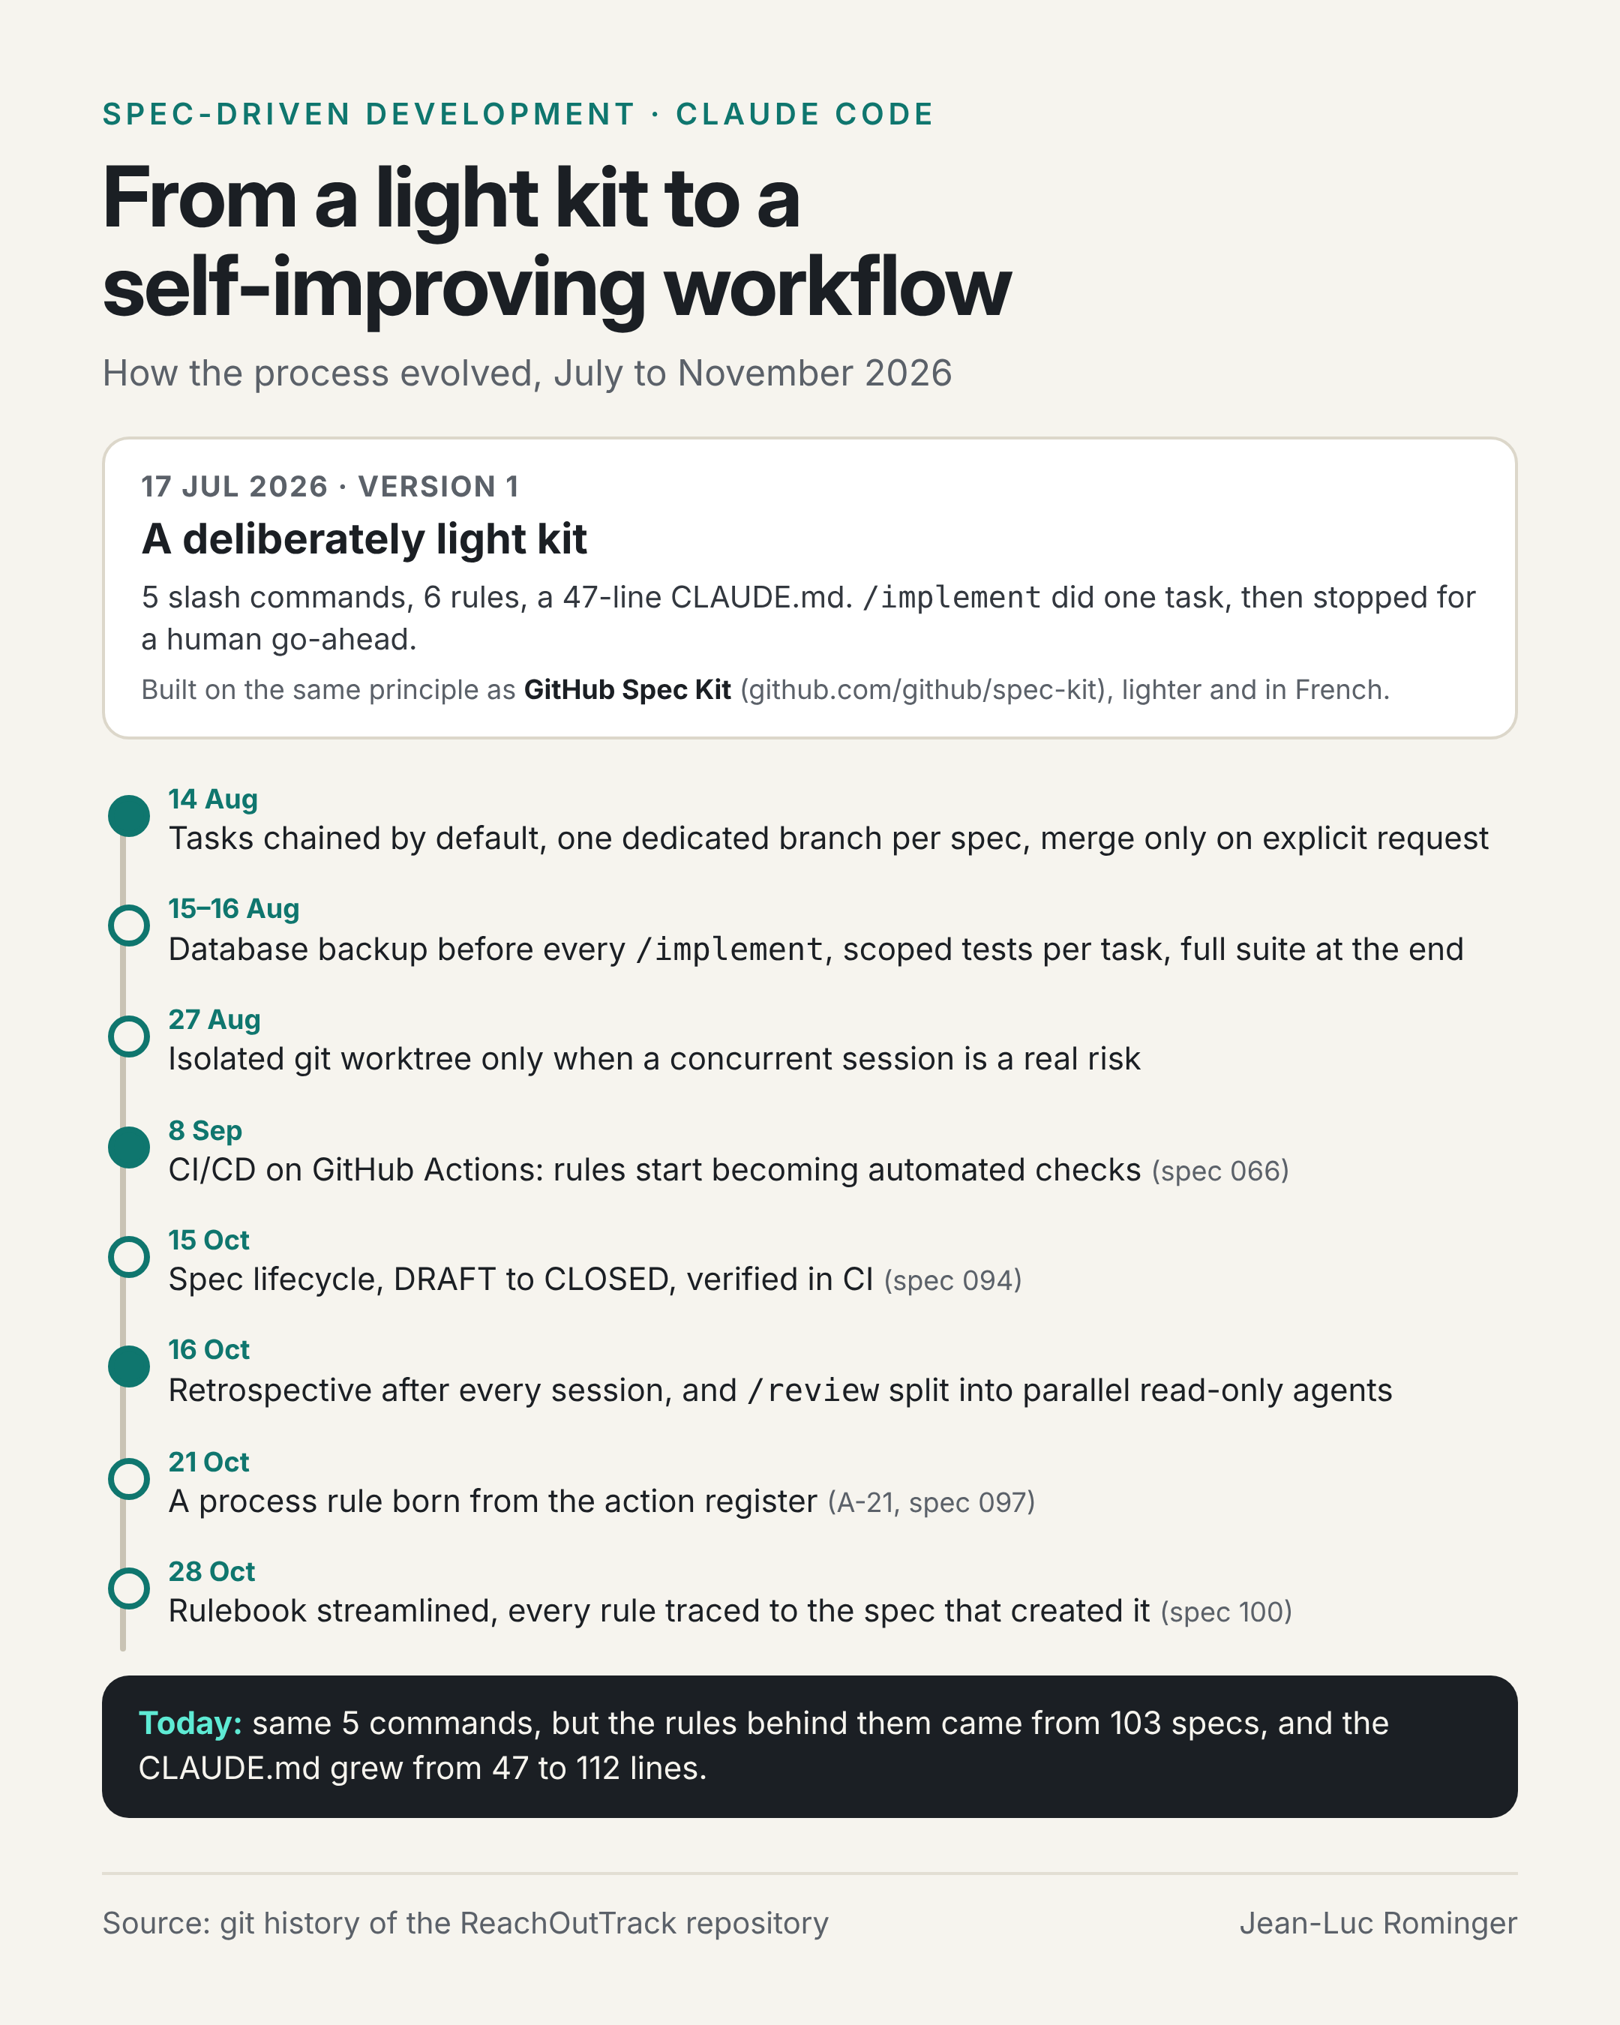
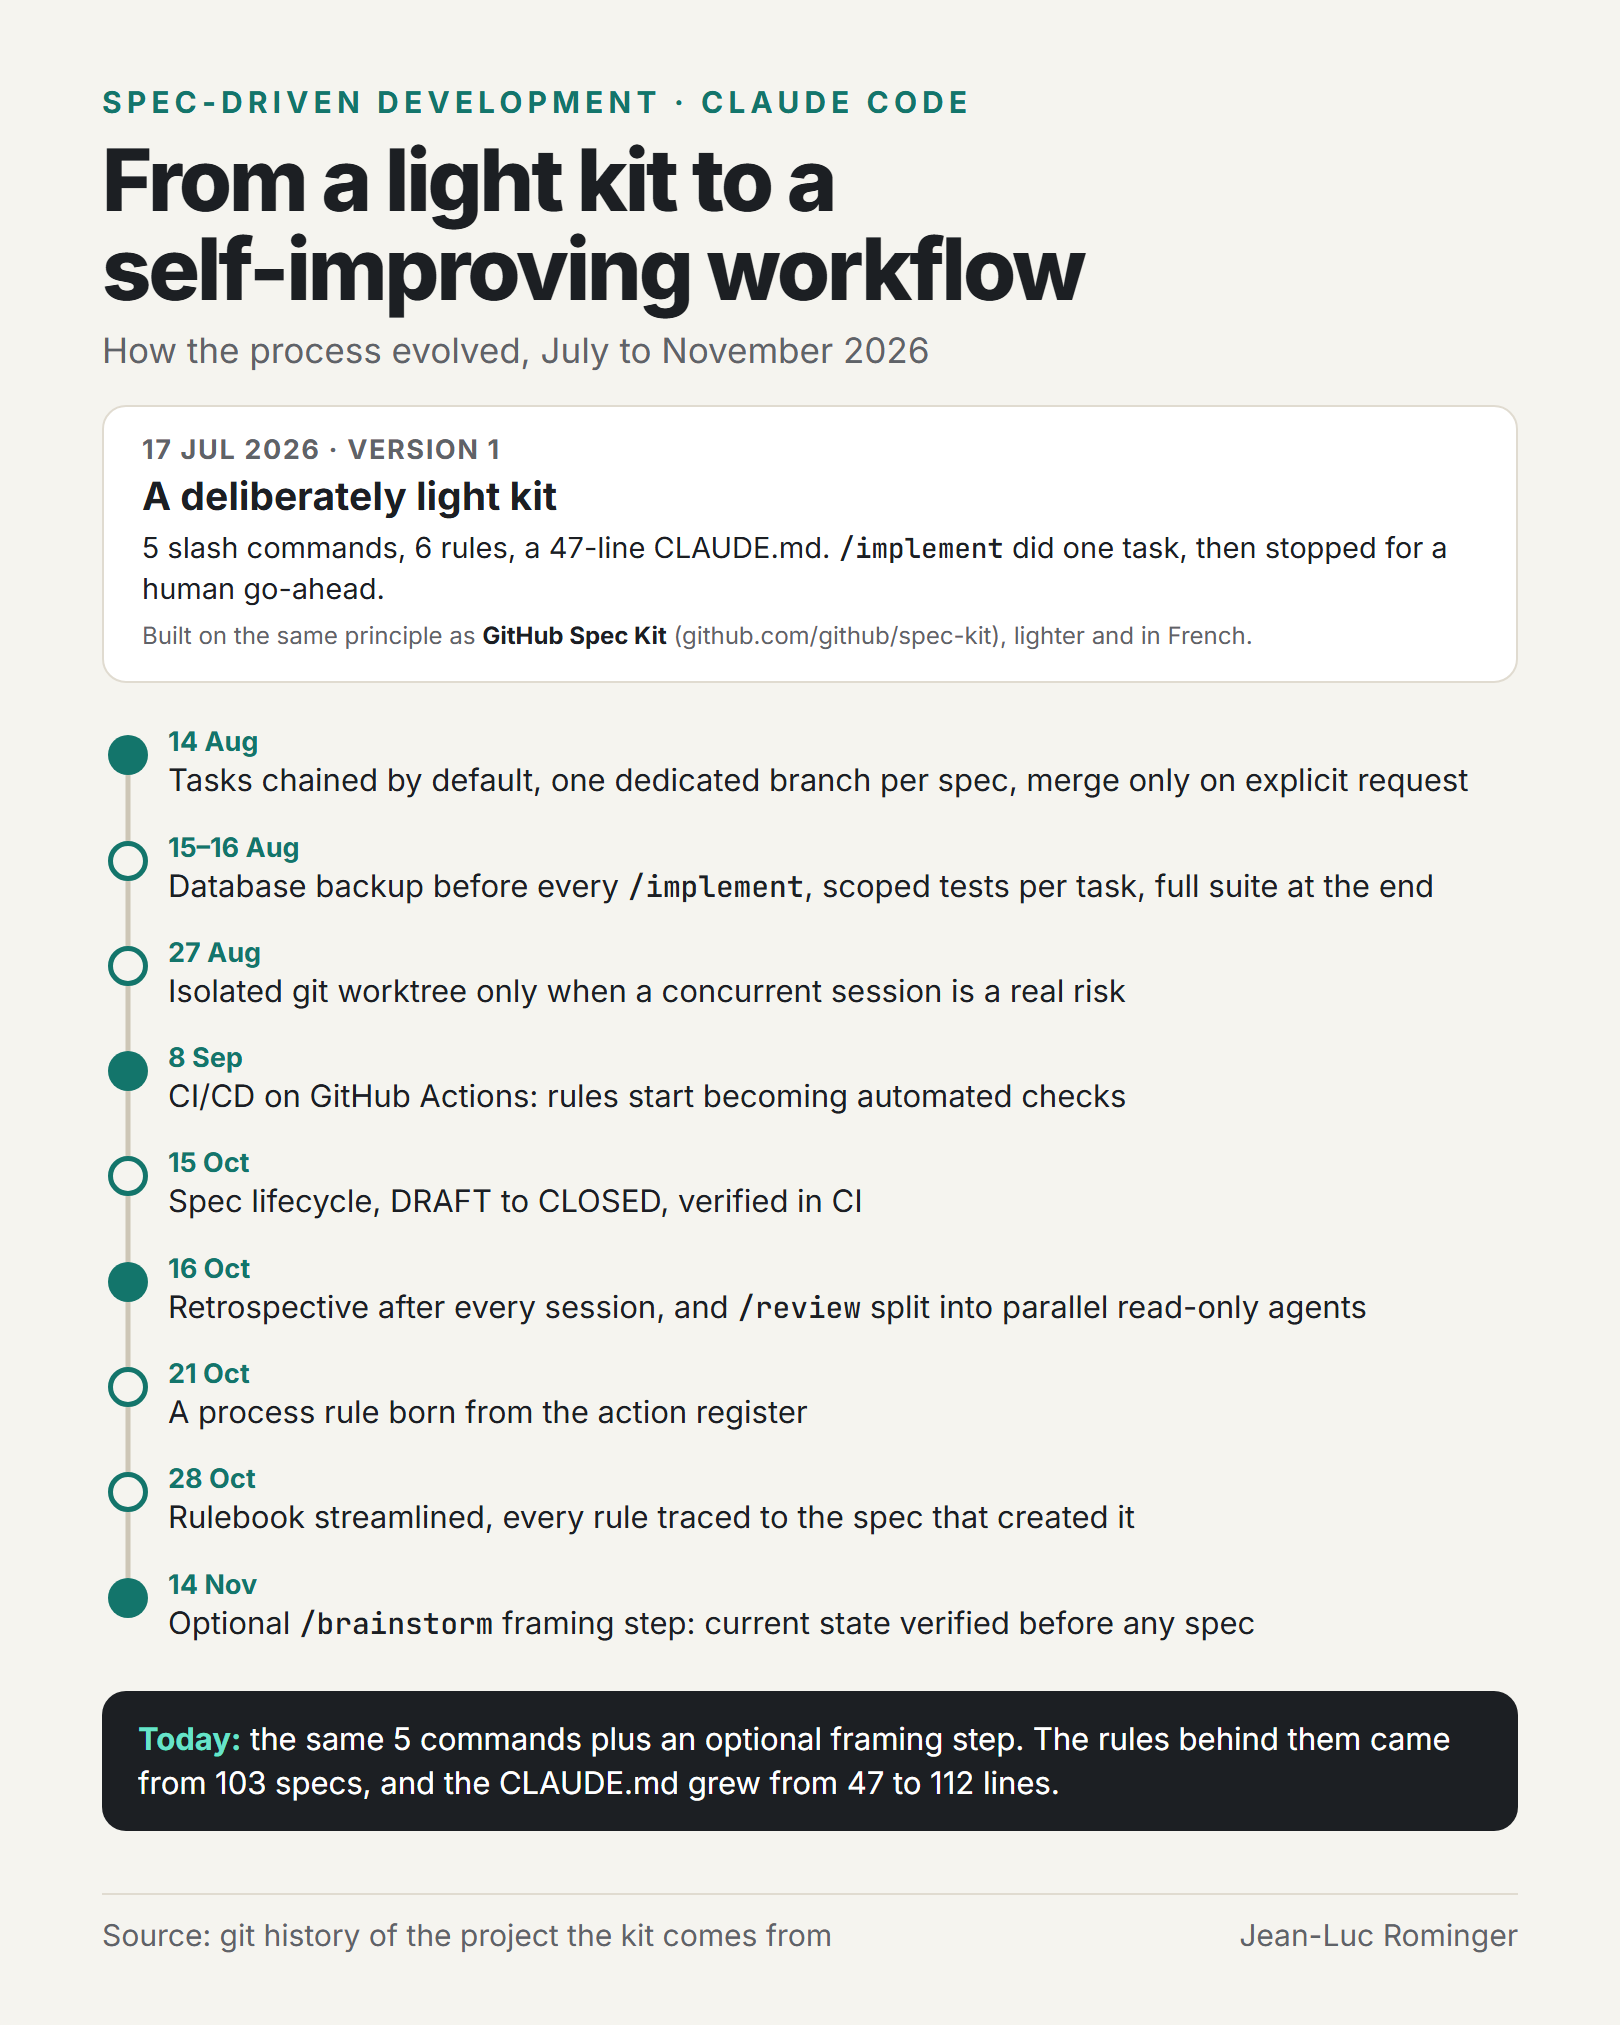
docs: evolution visual without source-project references, with its source
- evolution.png: no source-project name, spec or action numbers
  (MAINTAINING.md, section 3); new 14 Nov milestone for /brainstorm;
  "Today" box mentions the optional framing step. Same 1620 x 2025 px.
- docs/images/src/evolution.html: editable source; the folder README now
  covers both visuals.

Changed region(s): [[0.0617, 0.0311, 0.9259, 0.9644], [0.8025, 0.6844, 0.8642, 0.7156]]

diff --git a/docs/images/src/evolution.html b/docs/images/src/evolution.html
@@ -1,0 +1,163 @@
+<!doctype html>
+<!--
+  Source of docs/images/evolution.png (1620 x 2025 px, 4:5).
+  Edit the text below, then re-render: see docs/images/src/README.md.
+  Kit rule (MAINTAINING.md, section 3): no upstream project name, spec number or action number here.
+-->
+<html lang="en">
+<head>
+<meta charset="utf-8">
+<title>SDD kit evolution</title>
+<link rel="preconnect" href="https://fonts.googleapis.com">
+<link rel="preconnect" href="https://fonts.gstatic.com" crossorigin>
+<link href="https://fonts.googleapis.com/css2?family=Inter:wght@400;500;600;700;800&family=JetBrains+Mono:wght@500&display=block" rel="stylesheet">
+<style>
+  :root {
+    --bg: #f5f4ef;
+    --ink: #1c1f23;
+    --muted: #5f6368;
+    --line: #e0dbd0;
+    --rail: #cdc6b6;
+    --teal: #13756b;
+    --dark: #1c1f23;
+    --mint: #67e3c9;
+    --mono: "JetBrains Mono", ui-monospace, Consolas, monospace;
+  }
+  * { box-sizing: border-box; margin: 0; padding: 0; }
+  html, body { width: 1620px; height: 2025px; background: var(--bg); }
+  body {
+    font-family: Inter, "Segoe UI", Arial, sans-serif;
+    color: var(--ink);
+    -webkit-font-smoothing: antialiased;
+  }
+  code { font-family: var(--mono); font-size: .95em; }
+  .canvas {
+    width: 1620px; height: 2025px;
+    padding: 84px 102px 0;
+    display: flex; flex-direction: column;
+  }
+
+  /* Header */
+  .eyebrow { color: var(--teal); font-weight: 700; font-size: 30px; letter-spacing: .17em; }
+  h1 { font-size: 86px; font-weight: 800; letter-spacing: -.035em; line-height: 1.04; margin-top: 16px; }
+  .subtitle { color: var(--muted); font-size: 35px; margin-top: 14px; }
+
+  /* Version 1 card */
+  .v1 {
+    margin-top: 34px; background: #fff; border: 2px solid var(--line); border-radius: 24px;
+    padding: 26px 38px 28px;
+  }
+  .v1 .kicker { color: var(--muted); font-weight: 700; font-size: 27px; letter-spacing: .06em; }
+  .v1 h2 { font-size: 39px; font-weight: 700; margin-top: 6px; }
+  .v1 p { font-size: 29px; line-height: 1.42; margin-top: 8px; }
+  .v1 .note { color: var(--muted); font-size: 24px; margin-top: 10px; }
+  .v1 .note b { color: var(--ink); }
+
+  /* Timeline */
+  .timeline { margin-top: 36px; }
+  .item { display: grid; grid-template-columns: 52px 1fr; column-gap: 14px; }
+  .rail { position: relative; }
+  .rail::before {
+    content: ""; position: absolute; left: 50%; top: 0; bottom: 0;
+    width: 5px; transform: translateX(-50%); background: var(--rail);
+  }
+  .item:first-child .rail::before { top: 36px; }
+  .item:last-child .rail::before { bottom: auto; height: 36px; }
+  .dot {
+    position: absolute; left: 50%; top: 16px; transform: translateX(-50%);
+    width: 40px; height: 40px; border-radius: 50%; z-index: 1;
+    background: var(--teal);
+  }
+  .dot.minor { background: var(--bg); border: 5px solid var(--teal); }
+  .text { padding: 6px 0 24px; }
+  .date { color: var(--teal); font-weight: 700; font-size: 27px; }
+  .what { font-size: 31px; line-height: 1.3; margin-top: 2px; }
+
+  /* Today */
+  .today {
+    margin-top: 24px; background: var(--dark); color: #fff; border-radius: 24px;
+    padding: 26px 36px; font-size: 31px; line-height: 1.42;
+  }
+  .today b { color: var(--mint); }
+
+  footer {
+    margin-top: auto; margin-bottom: 72px; padding-top: 22px;
+    border-top: 2px solid var(--line);
+    display: flex; justify-content: space-between; font-size: 30px; color: var(--muted);
+  }
+</style>
+</head>
+<body>
+<div class="canvas">
+  <div class="eyebrow">SPEC-DRIVEN DEVELOPMENT · CLAUDE CODE</div>
+  <h1>From a light kit to a<br>self-improving workflow</h1>
+  <p class="subtitle">How the process evolved, July to November 2026</p>
+
+  <div class="v1">
+    <div class="kicker">17 JUL 2026 · VERSION 1</div>
+    <h2>A deliberately light kit</h2>
+    <p>5 slash commands, 6 rules, a 47-line CLAUDE.md. <code>/implement</code> did one task, then stopped for a human go-ahead.</p>
+    <p class="note">Built on the same principle as <b>GitHub Spec Kit</b> (github.com/github/spec-kit), lighter and in French.</p>
+  </div>
+
+  <!-- Filled dot = change to the cycle itself; hollow dot = refinement. -->
+  <div class="timeline">
+    <div class="item"><div class="rail"><span class="dot"></span></div><div class="text">
+      <div class="date">14 Aug</div>
+      <div class="what">Tasks chained by default, one dedicated branch per spec, merge only on explicit request</div>
+    </div></div>
+    <div class="item"><div class="rail"><span class="dot minor"></span></div><div class="text">
+      <div class="date">15–16 Aug</div>
+      <div class="what">Database backup before every <code>/implement</code>, scoped tests per task, full suite at the end</div>
+    </div></div>
+    <div class="item"><div class="rail"><span class="dot minor"></span></div><div class="text">
+      <div class="date">27 Aug</div>
+      <div class="what">Isolated git worktree only when a concurrent session is a real risk</div>
+    </div></div>
+    <div class="item"><div class="rail"><span class="dot"></span></div><div class="text">
+      <div class="date">8 Sep</div>
+      <div class="what">CI/CD on GitHub Actions: rules start becoming automated checks</div>
+    </div></div>
+    <div class="item"><div class="rail"><span class="dot minor"></span></div><div class="text">
+      <div class="date">15 Oct</div>
+      <div class="what">Spec lifecycle, DRAFT to CLOSED, verified in CI</div>
+    </div></div>
+    <div class="item"><div class="rail"><span class="dot"></span></div><div class="text">
+      <div class="date">16 Oct</div>
+      <div class="what">Retrospective after every session, and <code>/review</code> split into parallel read-only agents</div>
+    </div></div>
+    <div class="item"><div class="rail"><span class="dot minor"></span></div><div class="text">
+      <div class="date">21 Oct</div>
+      <div class="what">A process rule born from the action register</div>
+    </div></div>
+    <div class="item"><div class="rail"><span class="dot minor"></span></div><div class="text">
+      <div class="date">28 Oct</div>
+      <div class="what">Rulebook streamlined, every rule traced to the spec that created it</div>
+    </div></div>
+    <div class="item"><div class="rail"><span class="dot"></span></div><div class="text">
+      <div class="date">14 Nov</div>
+      <div class="what">Optional <code>/brainstorm</code> framing step: current state verified before any spec</div>
+    </div></div>
+  </div>
+
+  <div class="today">
+    <b>Today:</b> the same 5 commands plus an optional framing step. The rules behind them came from 103 specs, and the CLAUDE.md grew from 47 to 112 lines.
+  </div>
+
+  <footer>
+    <span>Source: git history of the project the kit comes from</span>
+    <span>Jean-Luc Rominger</span>
+  </footer>
+</div>
+<script>
+  // Exposes the content height for the render check (see README.md in this folder).
+  document.fonts.ready.then(() => {
+    const c = document.querySelector('.canvas');
+    const f = document.querySelector('footer');
+    const last = document.querySelector('.today');
+    document.body.dataset.fits = String(f.getBoundingClientRect().top - last.getBoundingClientRect().bottom >= 20);
+    document.body.dataset.height = String(c.scrollHeight);
+  });
+</script>
+</body>
+</html>

diff --git a/docs/images/src/README.md b/docs/images/src/README.md
@@ -3,22 +3,25 @@
 | Source | Rendered image | Size |
 |---|---|---|
 | `workflow.html` | `../workflow.png` | 1620 × 2025 px (4:5) |
+| `evolution.html` | `../evolution.png` | 1620 × 2025 px (4:5) |
 
-`evolution.png` has no source yet. Recreate it here the same way the next time it changes.
+No upstream project name, spec number or action number in these images (see `MAINTAINING.md`, section 3).
 
 ## Edit and re-render
 
-1. Edit the text in `workflow.html`. Colours and spacing are at the top of the file, in `<style>`.
+1. Edit the text in the `.html` source. Colours and spacing are at the top of the file, in `<style>`.
 2. Render it with headless Chrome (or Edge: same flags). The fonts (Inter, JetBrains Mono) load from Google Fonts, so you need network access. Run from the repository root:
 
    ```bash
+   NAME=workflow   # or evolution
+
    # Windows (Git Bash)
    CHROME="/c/Program Files/Google/Chrome/Application/chrome.exe"
    # macOS: CHROME="/Applications/Google Chrome.app/Contents/MacOS/Google Chrome"
    # Linux: CHROME=google-chrome
 
-   SRC="file://$(pwd)/docs/images/src/workflow.html"   # Windows: "file:///$(cygpath -m "$PWD")/docs/images/src/workflow.html"
-   OUT="$(pwd)/docs/images/workflow.png"                # Windows: "$(cygpath -m "$PWD")/docs/images/workflow.png"
+   SRC="file://$(pwd)/docs/images/src/$NAME.html"   # Windows: "file:///$(cygpath -m "$PWD")/docs/images/src/$NAME.html"
+   OUT="$(pwd)/docs/images/$NAME.png"                # Windows: "$(cygpath -m "$PWD")/docs/images/$NAME.png"
 
    # 1. Check that everything fits: expect data-fits="true" data-height="2025"
    "$CHROME" --headless=new --disable-gpu --window-size=1620,2025 --virtual-time-budget=10000 \
@@ -29,5 +32,5 @@
      --window-size=1620,2025 --virtual-time-budget=10000 --screenshot="$OUT" "$SRC"
    ```
 
-3. If step 1 prints `data-fits="false"`, or a height above 2025, the content overflows the canvas. Shorten a text or reduce the spacing (`.card` padding, `.card-wrap`, `.gate` height) until it fits again. Don't make the canvas taller: 4:5 is the format social networks display without cropping.
-4. Open the PNG and check it, then update the image's alt text in `README.md` if the content changed.
+3. If step 1 prints `data-fits="false"`, or a height above 2025, the content overflows the canvas. Shorten a text or reduce the spacing until it fits again: `.card` padding, `.card-wrap` and `.gate` height in `workflow.html`; `.text` padding in `evolution.html`. Don't make the canvas taller: 4:5 is the format social networks display without cropping.
+4. Open the PNG and check it, then update the image's alt text (`README.md`, `CHANGELOG.md`) if the content changed.
